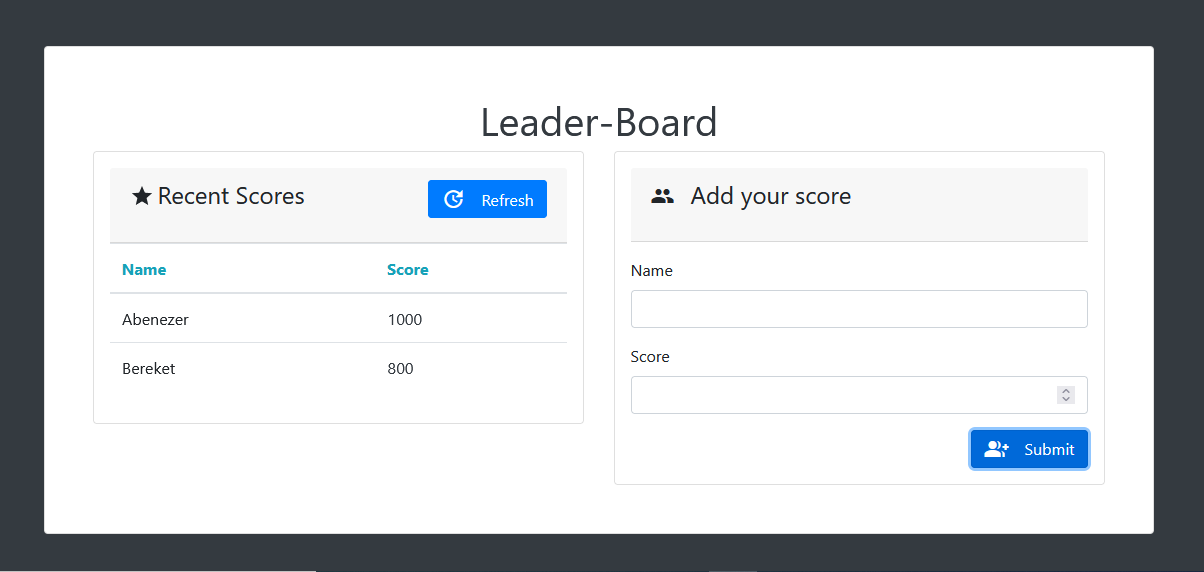
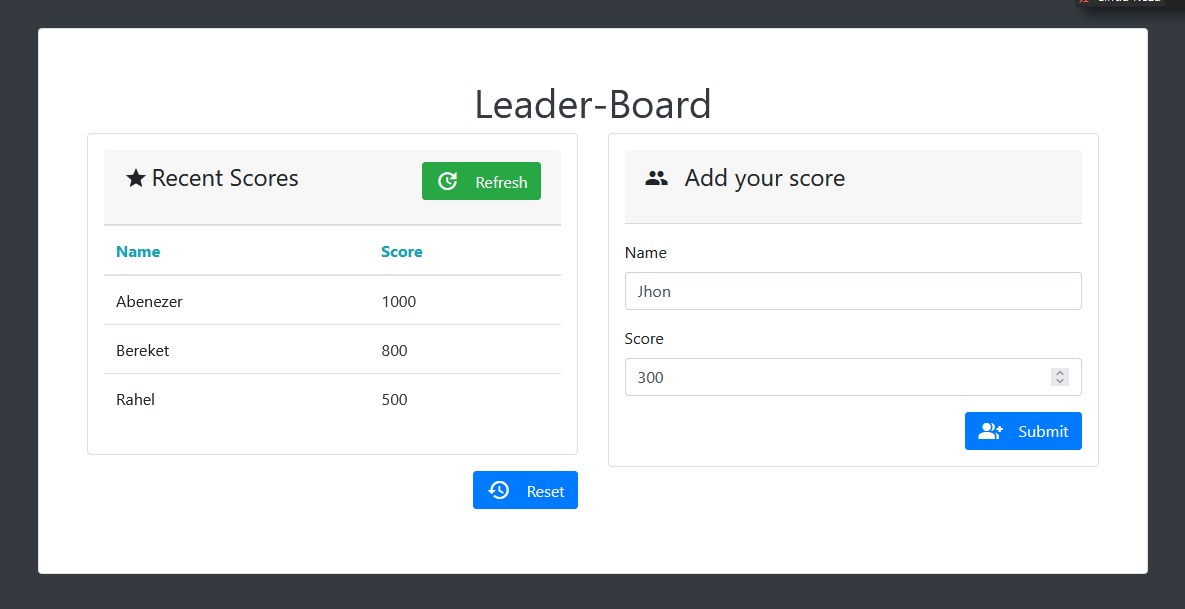
Design Leaderboard: final touches

diff --git a/dist/index.html b/dist/index.html
@@ -21,13 +21,17 @@
 						<div class="col-md-6">
 							<div class="card p-3">
                                 <div class="card-header card-header-icon" data-background-color="black">
-									<div class="card-title d-flex">
-										<i class="material-icons mr-1 mt-1 animate__animated animate__rotateIn">grade</i>
-										<h4>Recent Scores </h4>
-									   <button class="btn btn-primary d-flex ml-auto f5" type="button"><i class="material-icons mr-3">update</i> Refresh</button>
+                                    <div class="card-title row">
+										<div class="col-sm-6 d-flex">
+											<i class="material-icons mr-1 mt-1 animate__animated animate__rotateIn">grade</i>
+											<h4>Recent Scores </h4>
+										</div>
+										<div class="col-sm-6">
+											<button class="btn btn-success d-flex ml-auto f5 me-md-2" type="button"><i class="material-icons mr-3">update</i> Refresh</button>
+										</div>
 									</div>
                                 </div>
-                                <div class="card-content">      
+                                <div class="card-content">     
                                     <div class="table-responsive">
                                         <table class="table">
                                             <thead class="text-info">
@@ -40,7 +44,8 @@
                                         </table>
                                     </div>
                                 </div>
-                            </div>
+                                </div>
+                                <button class="btn btn-primary d-flex ml-auto  f4 me-md-2 mt-3 mb-3" type="button"><i class="material-icons mr-3">restore</i> Reset</button>
 						</div>
 						<div class="col-md-6">
                             <div class="card p-3">

diff --git a/index.html b/index.html
@@ -21,13 +21,17 @@
 						<div class="col-md-6">
 							<div class="card p-3">
                                 <div class="card-header card-header-icon" data-background-color="black">
-									<div class="card-title d-flex">
-										<i class="material-icons mr-1 mt-1 animate__animated animate__rotateIn">grade</i>
-										<h4>Recent Scores </h4>
-									   <button class="btn btn-primary d-flex ml-auto f5" type="button"><i class="material-icons mr-3">update</i> Refresh</button>
+                                    <div class="card-title row">
+										<div class="col-sm-6 d-flex">
+											<i class="material-icons mr-1 mt-1 animate__animated animate__rotateIn">grade</i>
+											<h4>Recent Scores </h4>
+										</div>
+										<div class="col-sm-6">
+											<button class="btn btn-success d-flex ml-auto f5 me-md-2" type="button"><i class="material-icons mr-3">update</i> Refresh</button>
+										</div>
 									</div>
                                 </div>
-                                <div class="card-content">      
+                                <div class="card-content">     
                                     <div class="table-responsive">
                                         <table class="table">
                                             <thead class="text-info">
@@ -40,7 +44,8 @@
                                         </table>
                                     </div>
                                 </div>
-                            </div>
+                                </div>
+                                <button class="btn btn-primary d-flex ml-auto  f4 me-md-2 mt-3 mb-3" type="button"><i class="material-icons mr-3">restore</i> Reset</button>
 						</div>
 						<div class="col-md-6">
                             <div class="card p-3">

diff --git a/src/index.html b/src/index.html
@@ -21,13 +21,17 @@
 						<div class="col-md-6">
 							<div class="card p-3">
                                 <div class="card-header card-header-icon" data-background-color="black">
-									<div class="card-title d-flex">
-										<i class="material-icons mr-1 mt-1 animate__animated animate__rotateIn">grade</i>
-										<h4>Recent Scores </h4>
-									   <button class="btn btn-primary d-flex ml-auto f5" type="button"><i class="material-icons mr-3">update</i> Refresh</button>
+                                    <div class="card-title row">
+										<div class="col-sm-6 d-flex">
+											<i class="material-icons mr-1 mt-1 animate__animated animate__rotateIn">grade</i>
+											<h4>Recent Scores </h4>
+										</div>
+										<div class="col-sm-6">
+											<button class="btn btn-success d-flex ml-auto f5 me-md-2" type="button"><i class="material-icons mr-3">update</i> Refresh</button>
+										</div>
 									</div>
                                 </div>
-                                <div class="card-content">      
+                                <div class="card-content">     
                                     <div class="table-responsive">
                                         <table class="table">
                                             <thead class="text-info">
@@ -40,7 +44,8 @@
                                         </table>
                                     </div>
                                 </div>
-                            </div>
+                                </div>
+                                <button class="btn btn-primary d-flex ml-auto  f4 me-md-2 mt-3 mb-3" type="button"><i class="material-icons mr-3">restore</i> Reset</button>
 						</div>
 						<div class="col-md-6">
                             <div class="card p-3">

diff --git a/Modules/application.js b/Modules/application.js
@@ -2,14 +2,21 @@ import Featchscore from './Featchscore.js';
 
 class Application {
   constructor() {
-    this.gateWay = new Featchscore();
-    this.gateWay.getID('Seed');
-
     this.inputs = document.querySelectorAll('.userdetails');
     this.success_message = document.querySelector('.success-message');
     this.form = document.querySelector('.data-form');
     this.tableList = document.querySelector('.table-content');
     this.refreshBtn = document.querySelector('.f5');
+    this.resetBtn = document.querySelector('.f4');
+    this.localStorageStringInstance = 'app_config';
+
+    this.gateWay = new Featchscore();
+    if (this.onLoad() != null) {
+      this.gateWay.id = this.onLoad();
+      this.refreshList();
+    } else {
+      this.createNewToken();
+    }
   }
 
     initApp = () => {
@@ -24,6 +31,24 @@ class Application {
         event.currentTarget.ref.refreshList();
       });
       this.refreshBtn.ref = this;
+
+      this.resetBtn.addEventListener('click', (event) => {
+        event.currentTarget.ref.createNewToken();
+      });
+      this.resetBtn.ref = this;
+    }
+
+    createNewToken = () => {
+      const res = this.gateWay.getID('Seed');
+      res.then((data) => {
+        const stringResult = data.result;
+        this.gateWay.id = stringResult.substring(13, 34);
+        this.onSave(this.gateWay.id);
+        this.refreshList();
+      })
+        .catch((error) => {
+          throw error;
+        });
     }
 
     addUserScore = () => {
@@ -61,6 +86,12 @@ class Application {
           throw error;
         });
     }
+
+    onSave = (token) => {
+      localStorage.setItem(this.localStorageStringInstance, token);
+    }
+
+    onLoad = () => localStorage.getItem(this.localStorageStringInstance);
 }
 
 export default Application;

diff --git a/Modules/Featchscore.js b/Modules/Featchscore.js
@@ -5,21 +5,15 @@ class Featchscore {
   }
 
     getID = async (key) => {
-      await fetch(`${this.endpointURL}`, {
+      const data = await fetch(`${this.endpointURL}`, {
         method: 'POST',
         headers: {
           'Content-Type': 'application/json',
         },
         body: JSON.stringify({ name: key }),
-      })
-        .then((response) => response.json())
-        .then((data) => {
-          const stringResult = data.result;
-          this.id = stringResult.substring(13, 34);
-        })
-        .catch((error) => {
-          throw error;
-        });
+
+      });
+      return data.json();
     }
 
     insertData = async (_name, _score) => {
